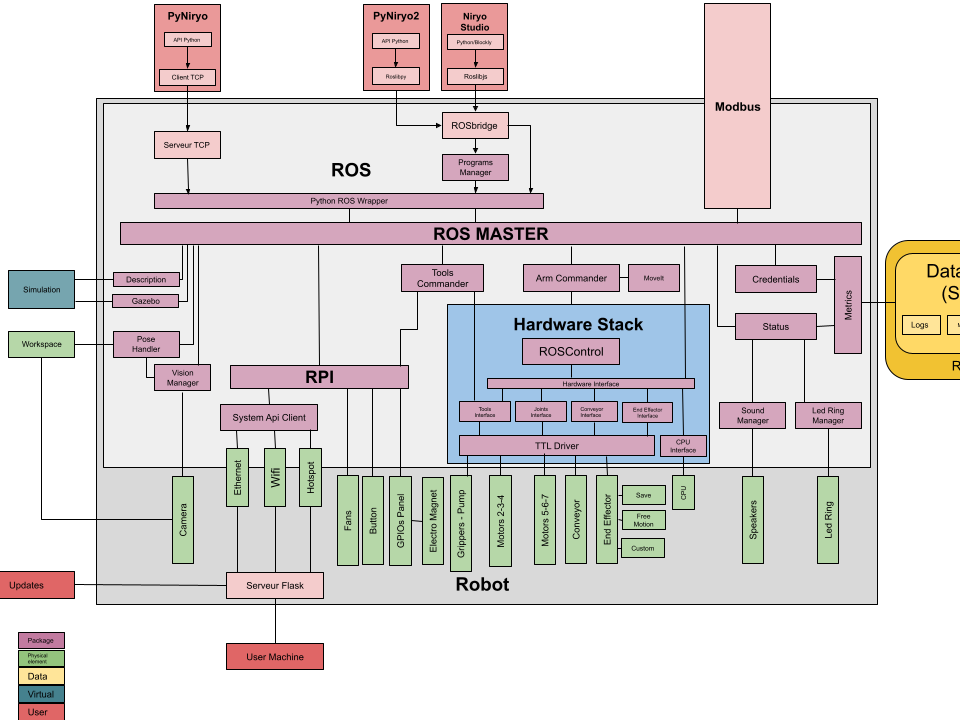
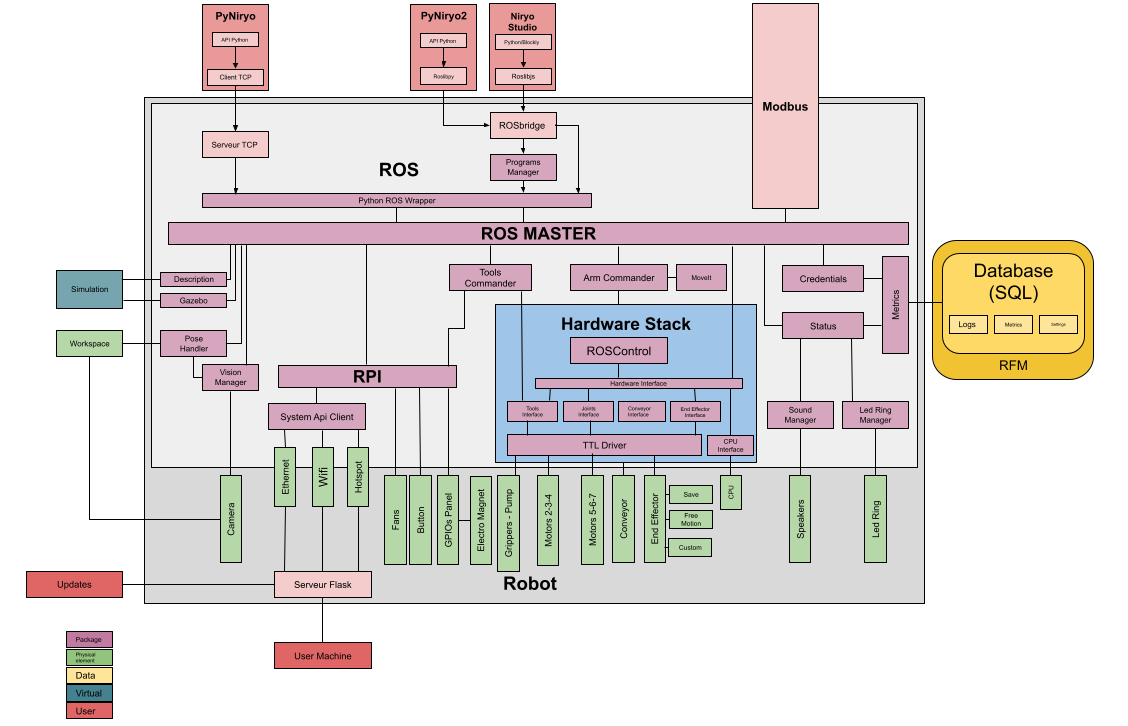
remove some todos

diff --git a/sphinx_doc/source/installation/wsl.rst b/sphinx_doc/source/installation/wsl.rst
@@ -1,6 +1,12 @@
 Windows Subsystem for Linux installation (experimental)
 ========================================================
 
+
+Microsoft is developping since 2016 a compatibility layer for running Linux binary executables natively on Windows 10. With the version 2 issued in 2019,
+this "hidden Linux kernel" is now mature enough to run complex operations like the full ROS stack [2]_.
+
+Thus you will be able to run simulations for the Ned, Niryo One or Ned2 robots on a Windows machine.
+
 .. note::
     You have to be running Windows 10 version 2004 (Build 19041) or higher for WSL2 to work.
 
@@ -9,22 +15,22 @@ Windows Subsystem for Linux installation (experimental)
 
 The following guide is mainly adapted from this blog post from Jack Kawell, feel free to refer to it for more complete information [1]_
 
-Microsoft is developping since 2016 a compatibility layer for running Linux binary executables natively on Windows 10. With the version 2 issued in 2019,
-this "hidden Linux kernel" is now mature enough to run complex operations like the full ROS stack [2]_.
-
 
 Install WSL2 [3]_
 ------------------
 
 1. Enable Windows Subsystem for Linux on your machine (in a powershell terminal)
-::
-dism.exe /online /enable-feature /featurename:Microsoft-Windows-Subsystem-Linux /all /norestart
+
+.. code::
+    
+    dism.exe /online /enable-feature /featurename:Microsoft-Windows-Subsystem-Linux /all /norestart
 
 2. Update WSL to use version 2 (in a powershell terminal)
-::
-dism.exe /online /enable-feature /featurename:VirtualMachinePlatform /all /norestart
 
-.. todo:: bizarres les affichages encore non ? 
+.. code::
+
+    dism.exe /online /enable-feature /featurename:VirtualMachinePlatform /all /norestart
+
 
 3. You then need to restart your machine to finish the WSL installation and the upgrade to WSL2.
 
@@ -101,7 +107,6 @@ You can add this to your bashrc file.
 
 6. You should now be able to launch any simulation of the One, Ned or Ned2 using Rviz or Gazebo
 
-.. todo:: on a ici la toute première occurence du Ned2, qui n'avait jamais été mentionné avant. C'est normal de ne pas l'avoir eu avant ?
 
 Troubleshooting
 ----------------

diff --git a/sphinx_doc/source/stack/overview.rst b/sphinx_doc/source/stack/overview.rst
@@ -16,8 +16,6 @@ in order to understand where are placed each part of the software.
 
    Niryo robot v3 software
 
-.. todo:: l'image ci-dessus est un peu coupée sur la droite c'est dommage
-
 
 .. figure:: ../../images/ros_logo.png
    :alt: ROS Logo
